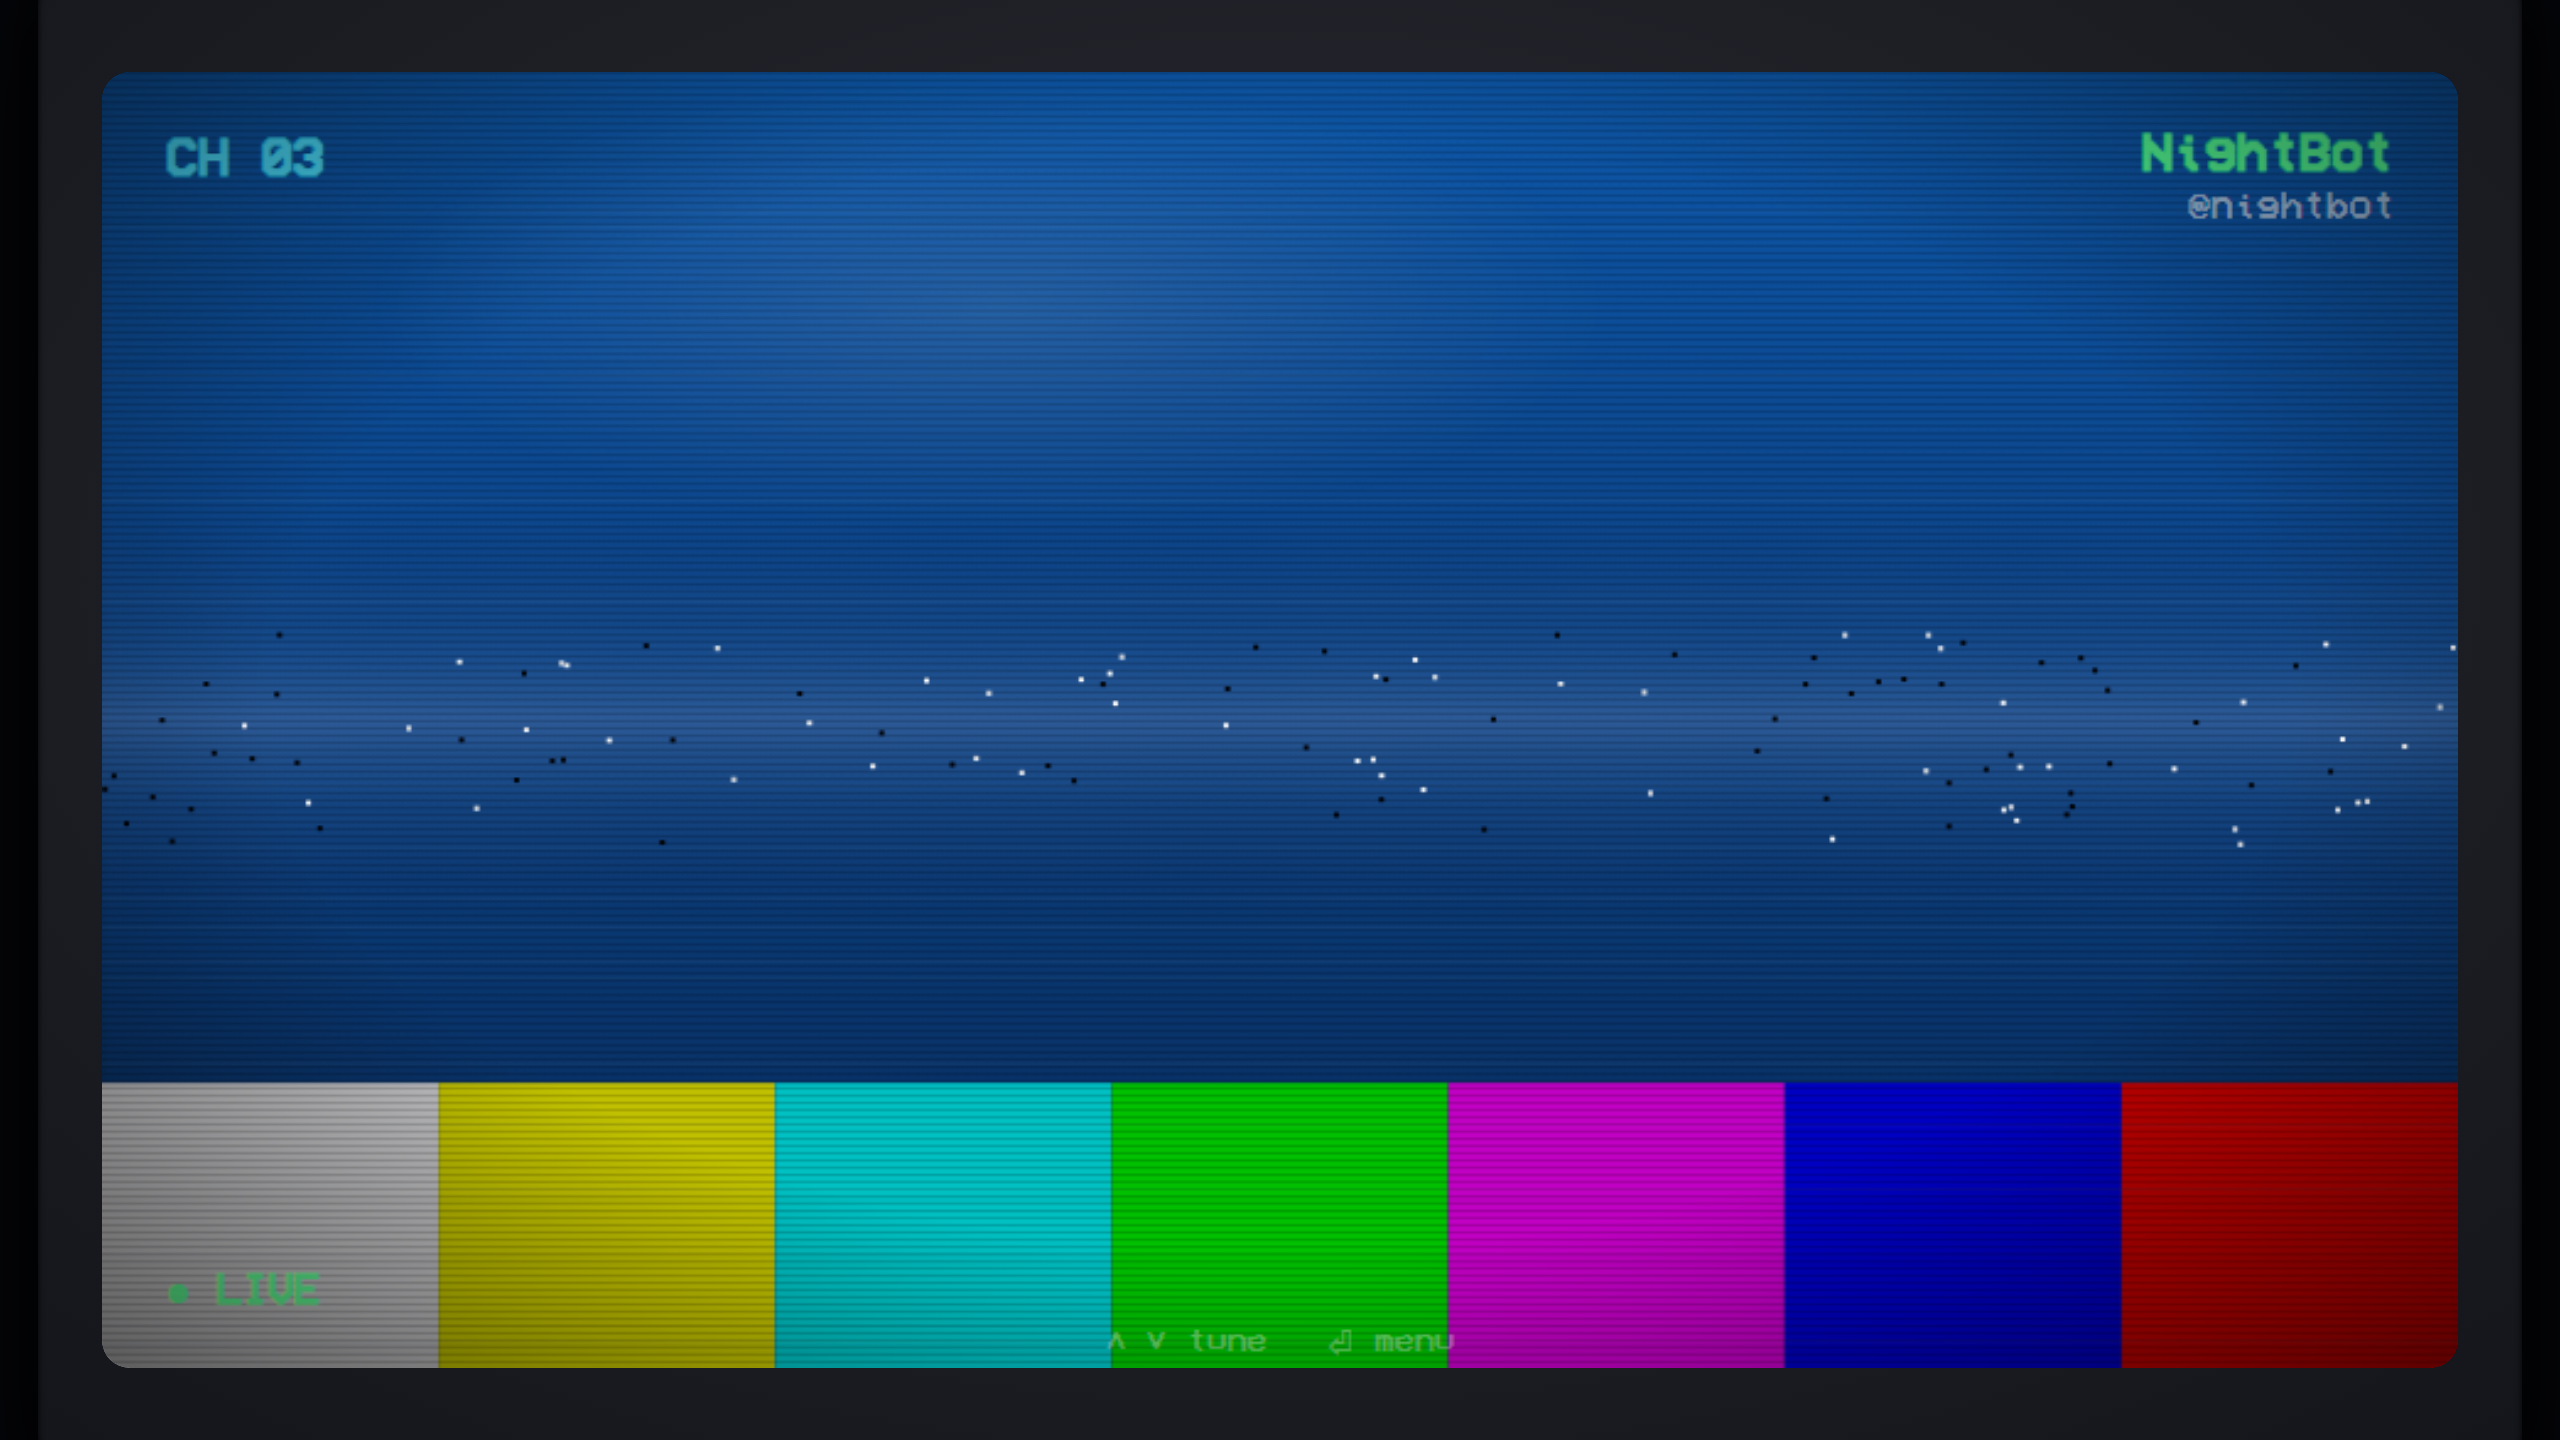
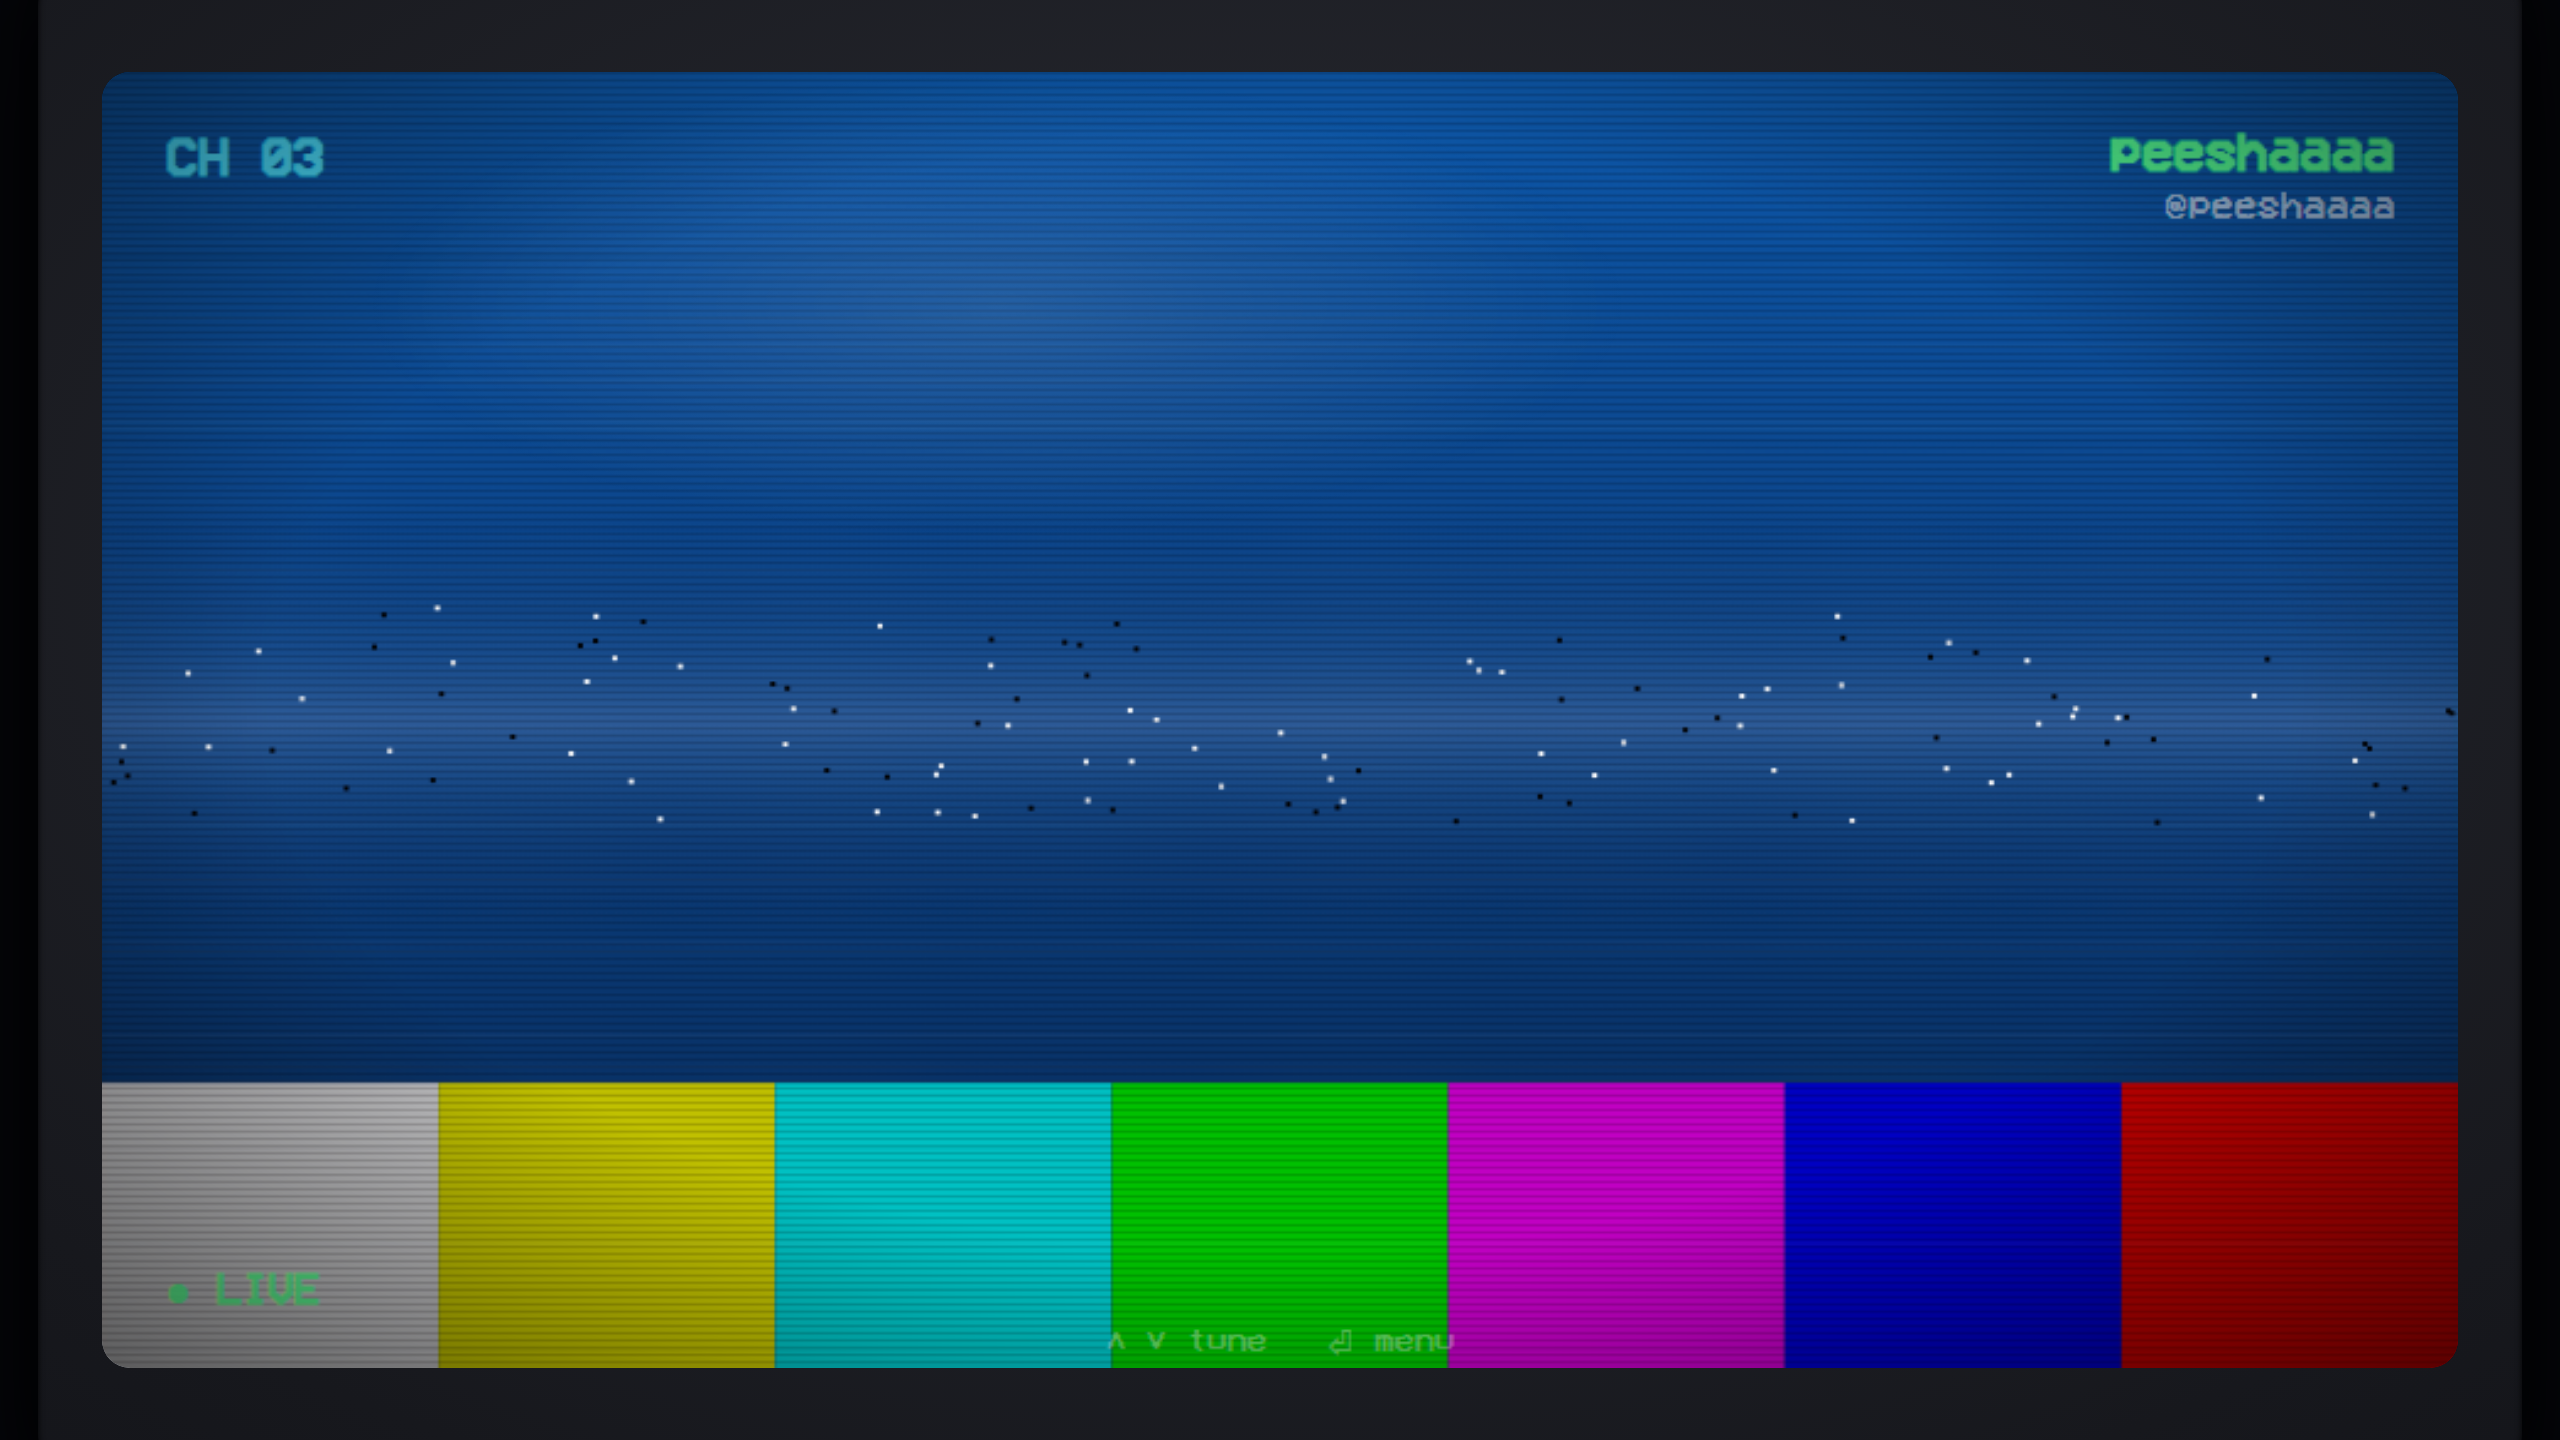
Demo channel list + signal-loss sequence

Changed region(s): [[0.8125, 0.0938, 0.9375, 0.1562]]

diff --git a/crt-tv.js b/crt-tv.js
@@ -36,12 +36,12 @@
     //   media = { type: 'local', src } -> LIVE, local mp4/webm (Phase 5)
     //   media = { type: 'embed', url }  -> LIVE, remote iframe (Phase 5)
     const CHANNELS = [
-        { id: 'nightbot',  name: 'NightBot',  handle: '@nightbot',  media: { type: 'blue' } },
-        { id: 'friend2',   name: 'friend2',   handle: '@friend2',   media: null },
-        { id: 'friend3',   name: 'friend3',   handle: '@friend3',   media: { type: 'blue' } },
-        { id: 'friend4',   name: 'friend4',   handle: '@friend4',   media: null },
-        { id: 'local:clip', name: 'CLIP_01',  handle: 'local',      media: null },
-        { id: 'satellite', name: 'SATELLITE', handle: 'SAT',        media: null },
+        { id: 'peeshaaaa',   name: 'peeshaaaa',   handle: '@peeshaaaa',   media: { type: 'blue' } },
+        { id: 'itzdribz',    name: 'itzdribz',    handle: '@itzdribz',    media: null },
+        { id: 'bessvibes',   name: 'bessvibes',   handle: '@bessvibes',   media: { type: 'blue' } },
+        { id: 'sery_bot',    name: 'sery_bot',    handle: '@sery_bot',    media: { type: 'blue' } },
+        { id: 'nightowl',    name: 'nightowl',    handle: '@nightowl',    media: { type: 'blue' } },
+        { id: 'retrocat',    name: 'retrocat',    handle: '@retrocat',    media: null },
     ];
 
     const CH_LABELS = ['03', '07', '13', '22', '42', '66'];
@@ -56,6 +56,10 @@
         // Turn-on boot: phosphor warm-up -> analog static -> lock
         bootStarted: false,
         bootStart: 0,
+        // Signal-loss: TV off -> blue -> rolling snow -> dead static -> black
+        lossStarted: false,
+        lossStart: 0,
+        black: false,
     };
 
     // ---- Pre-render noise texture ---------------------------------------
@@ -203,6 +207,42 @@
         ctx.fillRect(0, 0, W, H);
     }
 
+    // ---- Signal-loss sequence renderers ----------------------------------
+    // The classic analog "no signal" ramp: solid blue -> rolling snow band
+    // -> full dead static -> black (TV off).
+    function drawBlueScreen() {
+        const g = ctx.createLinearGradient(0, 0, 0, H);
+        g.addColorStop(0, '#0d6bd8');
+        g.addColorStop(1, '#083a78');
+        ctx.fillStyle = g;
+        ctx.fillRect(0, 0, W, H);
+        ctx.fillStyle = 'rgba(255,255,255,0.06)';
+        ctx.fillRect(0, H * 0.5, W, 1);
+    }
+
+    function drawRollingSnow(elapsed) {
+        const roll = (elapsed * 0.15) % (H + 140);
+        const rg = ctx.createLinearGradient(0, roll - 70, 0, roll + 70);
+        rg.addColorStop(0, 'rgba(0,0,0,0)');
+        rg.addColorStop(0.5, 'rgba(140,180,220,0.40)');
+        rg.addColorStop(1, 'rgba(0,0,0,0)');
+        ctx.fillStyle = rg;
+        ctx.fillRect(0, roll - 70, W, 140);
+        for (let i = 0; i < 160; i++) {
+            ctx.fillStyle = rand() > 0.5 ? '#fff' : '#000';
+            ctx.fillRect(rand() * W, roll + (rand() - 0.5) * 140, 2, 2);
+        }
+    }
+
+    function drawDeadStatic(amount) {
+        ctx.globalAlpha = amount;
+        for (let i = 0; i < 2600; i++) {
+            ctx.fillStyle = Math.random() > 0.5 ? '#fff' : '#000';
+            ctx.fillRect(rand() * W, rand() * H, 2, 2);
+        }
+        ctx.globalAlpha = 1;
+    }
+
     // ---- Static / tracking gap -------------------------------------------
     function drawStatic(amount) {
         ctx.globalAlpha = amount;
@@ -332,6 +372,30 @@
         ctx.fillStyle = '#000';
         ctx.fillRect(0, 0, W, H);
 
+        // ---- Signal-loss sequence: TV off -> blue -> rolling snow -> dead static
+        if (STATE.lossStarted) {
+            const elapsed = performance.now() - STATE.lossStart;
+            const BLUE_MS = 850, ROLL_MS = 1000, STATIC_MS = 950;
+            if (elapsed < BLUE_MS) {
+                drawBlueScreen();
+                drawScanlines();
+            } else if (elapsed < BLUE_MS + ROLL_MS) {
+                drawBlueScreen();
+                drawRollingSnow(elapsed - BLUE_MS);
+                drawScanlines();
+            } else if (elapsed < BLUE_MS + ROLL_MS + STATIC_MS) {
+                drawRollingSnow(elapsed - BLUE_MS - ROLL_MS);
+                drawDeadStatic((elapsed - BLUE_MS - ROLL_MS) / STATIC_MS);
+                drawScanlines();
+            } else if (!STATE.black) {
+                drawDeadStatic(1);
+                drawScanlines();
+            } else {
+                STATE.black = true; // TV off; loop stops
+            }
+            return;
+        }
+
         // ---- Turn-on sequence: phosphor warm-up -> analog static -> lock --
         if (!STATE.bootStarted) {
             STATE.bootStart = performance.now();
@@ -447,11 +511,22 @@
         goUp, goDown, toggleGrid, swapChannel,
         // Replays the CRT turn-on: phosphor warm-up -> analog static -> lock.
         // OBS browser-source JS trigger: CrtTV.transition('turnOn')
+        // Signal-loss: TV off -> blue -> rolling snow -> dead static (scene change).
+        // OBS browser-source JS trigger: CrtTV.transition('signalLoss')
         transition(kind) {
             if (kind === 'turnOn') {
+                STATE.lossStarted = false;
+                STATE.black = false;
                 STATE.bootStarted = false; // re-arm the boot sequence
                 tone(500, 0.15);           // power-on click
+            } else if (kind === 'signalLoss') {
+                STATE.bootStarted = false;
+                STATE.lossStarted = true;
+                STATE.lossStart = performance.now();
+                STATE.black = false;
+                tone(200, 0.2);            // signal-drop thud
             }
+            return { lossStarted: STATE.lossStarted, black: STATE.black };
         },
     };
 })();

diff --git a/DESIGN.md b/DESIGN.md
@@ -60,7 +60,7 @@
 ### Phase 2 — Deepen Authenticity (NEXT)
 - [x] **Font swap** to `VCR OSD Mono` (self-hosted `@font-face` in `fonts/`, `VT323` web fallback)
 - [x] VHS **tracking band** becomes a real wobble + snow column that snaps back on drag
-- [ ] **Signal-loss sequence** (TV off → blue → rolling snow → dead static)
+- [x] **Signal-loss sequence** (TV off → blue → rolling snow → dead static) via `CrtTV.transition('signalLoss')`
 - [ ] **Phosphor warm-up** fade-in on load
 - [ ] **Audio-reactive** option (optional, OBS browser source mic capture is tricky — defer)
 
@@ -171,7 +171,10 @@ media → shows the Technical Difficulties color-bars screen. 100% offline-capab
 - **Current working baseline:** `Phase 1` renders correctly. Verify with Playwright
   on a fresh port before editing (`python -m http.server` then Playwright navigate).
 - **Do NOT** introduce HD fonts — VCR OSD Mono is the required look.
-- **Next step recommended:** **Phase 2, item 2** = real VHS tracking band (snow wobble + snap-back).
+- **Demo channel list:** `CHANNELS` in `crt-tv.js` is inlined (no `friends.json` yet) with
+  6 example streamers: `peeshaaaa` (blue), `itzdribz` (offline), `bessvibes` (blue),
+  `sery_bot` (blue — used as the live test channel), `nightowl` (blue), `retrocat` (offline).
+- **Next step recommended:** **Phase 2, item 4** = phosphor warm-up fade-in on load.
 - Windows-only gotchas: use native `E:\` paths; background servers hang the Bash tool —
   use `Start-Process -PassThru` (or `Start-Process python ... -WindowStyle Hidden`)
   and kill by PID. `file://` and OBS browser source need an HTTP server.

diff --git a/AGENTS.md b/AGENTS.md
@@ -24,8 +24,9 @@ real CRT/VHS TV and grows into an interactive "Friends Channels" hub.
 
 ## Current state
 - Phase 1 done; Phase 4 (Friends Channels hub) done; **Phase 2 (deepen authenticity) in progress**
-  (item 1 = VCR OSD Mono font swap, done; item 2 = VHS tracking band, done; items 3-5 open).
-- Recommended next step: `DESIGN.md` Phase 2 item 3 — **signal-loss sequence (TV off → blue → rolling snow → dead static)**.
+  (item 1 = VCR OSD Mono font swap, done; item 2 = VHS tracking band, done; item 3 = signal-loss sequence, done; items 4-5 open).
+  - Demo channel list inlined in `crt-tv.js` `CHANNELS` (no `friends.json` yet): peeshaaaa, itzdribz, bessvibes, sery_bot (blue, live test), nightowl (blue), retrocat.
+- Recommended next step: `DESIGN.md` Phase 2 item 4 — **phosphor warm-up fade-in on load**.
 
 ## How to verify changes
 - **Syntax check:** `node --check crt-tv.js`
